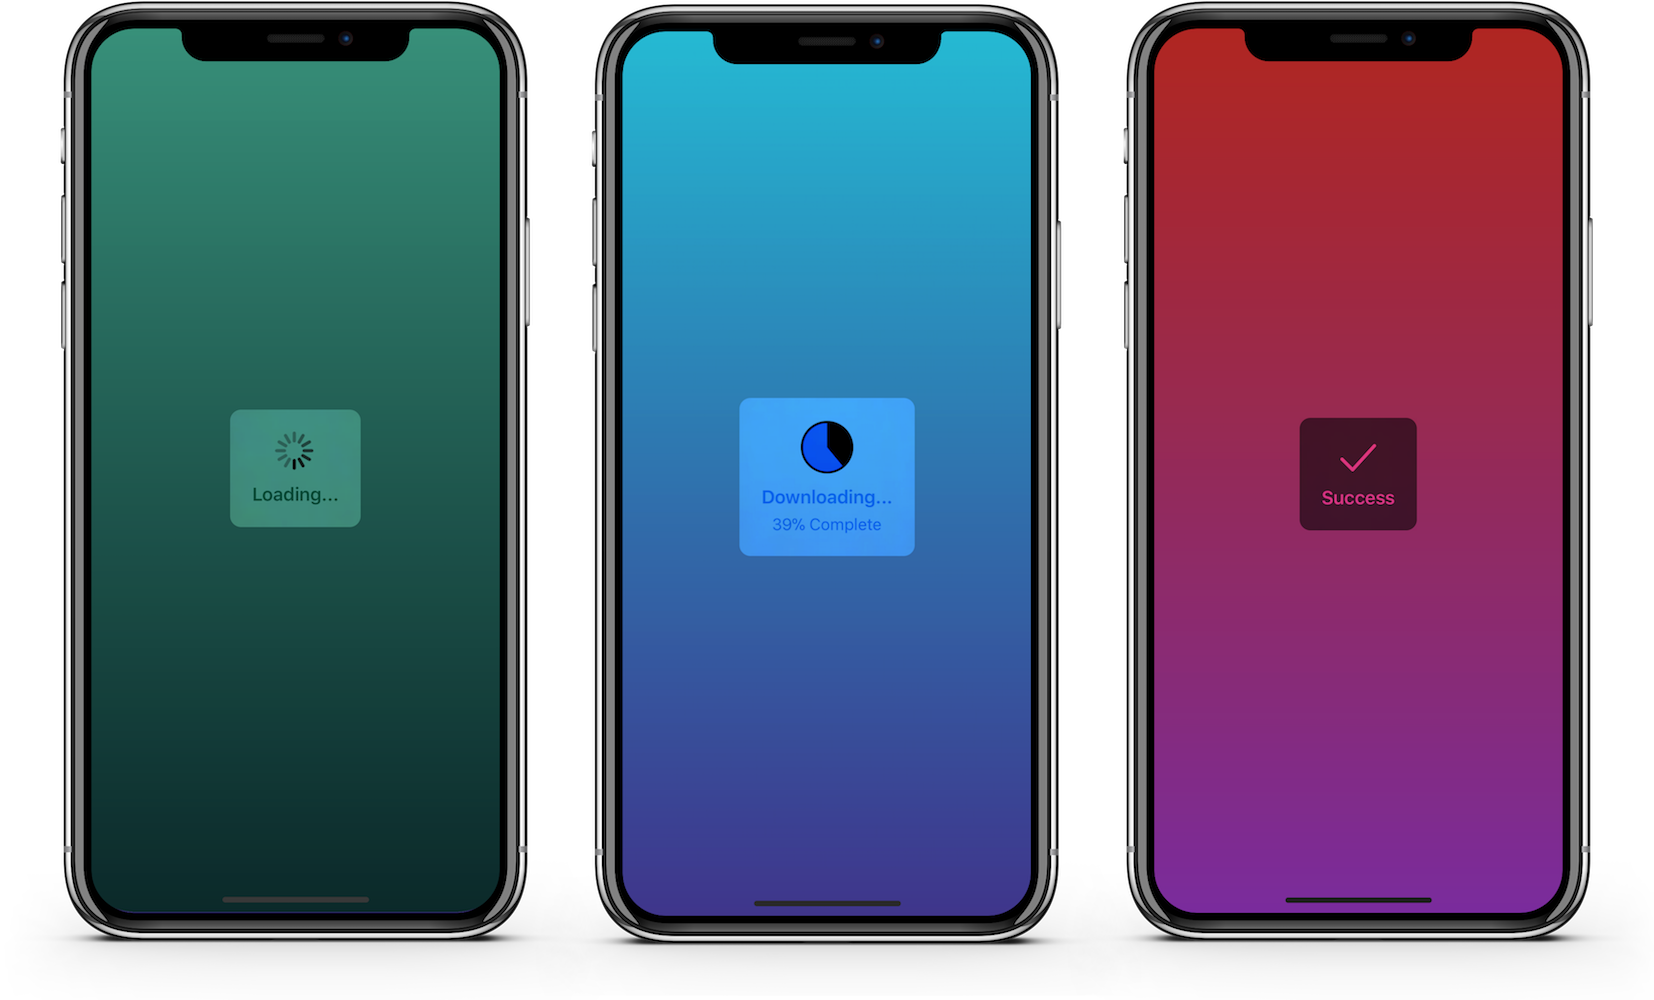
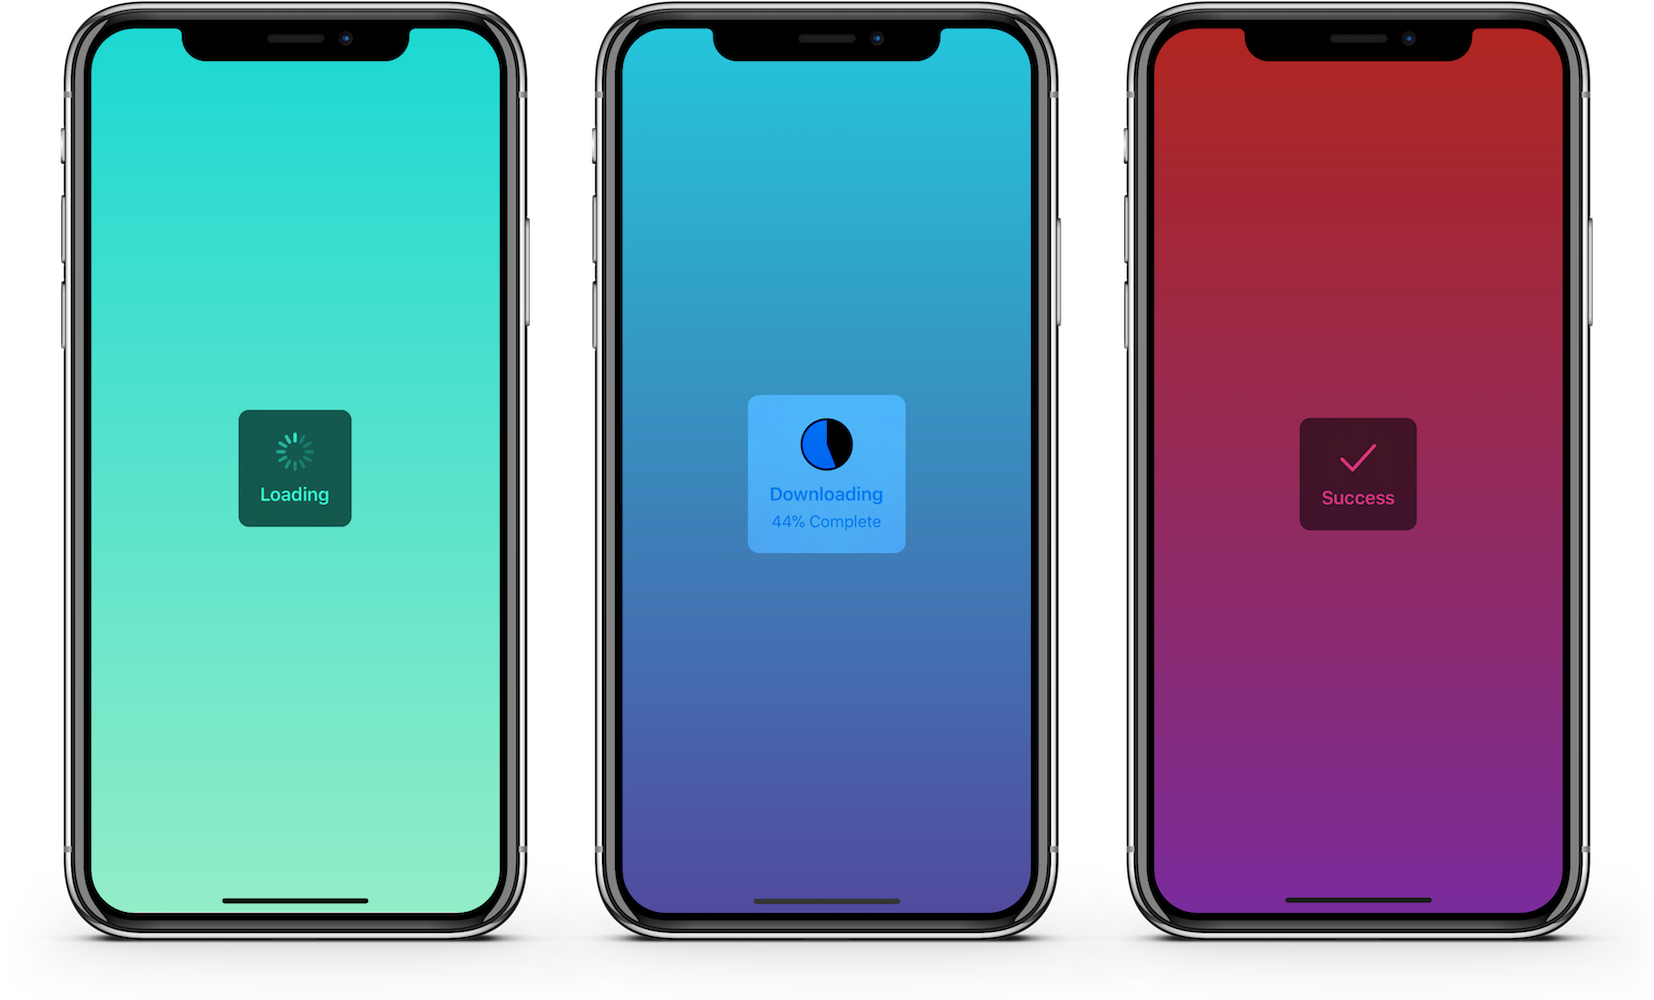
Update screenshots and examples

diff --git a/Examples/JGProgressHUD-Tests-Swift/ViewController.swift b/Examples/JGProgressHUD-Tests-Swift/ViewController.swift
@@ -9,6 +9,14 @@
 import UIKit
 import JGProgressHUD
 
+private typealias Gradient = (start: UIColor, end: UIColor)
+
+private let blueGradient: Gradient = (UIColor(rgb: 0x24C6DC), UIColor(rgb: 0x514A9D))
+private let tealGradient: Gradient = (UIColor(rgb: 0x1CD8D2), UIColor(rgb: 0x93EDC7))
+private let redGradient: Gradient = (UIColor(rgb: 0xAE2727), UIColor(rgb: 0x79319B))
+
+private let gradient = blueGradient
+
 final class GradientView: UIView {
     init(startColor: UIColor, endColor: UIColor) {
         super.init(frame: .zero)
@@ -45,26 +53,32 @@ extension UIColor {
 }
 
 final class ViewController: UIViewController {
+    #if os(iOS)
     override var prefersStatusBarHidden: Bool {
         return true
     }
+    #endif
     
     override func loadView() {
-        self.view = GradientView(startColor: UIColor(rgb: 0x24C6DC), endColor: UIColor(rgb: 0x514A9D))
+        self.view = GradientView(startColor: gradient.start, endColor: gradient.end)
     }
     
     override func viewDidAppear(_ animated: Bool) {
         super.viewDidAppear(animated)
         
         DispatchQueue.main.asyncAfter(deadline: .now() + .milliseconds(1000)) {
-            self.showPieHUD()
+            self.showLoadingHUD()
         }
     }
     
     func showSimpleHUD() {
         let hud = JGProgressHUD(style: .light)
         hud.vibrancyEnabled = true
-        hud.textLabel.text = "Simple example in Swift"
+        #if os(tvOS)
+            hud.textLabel.text = "Simple example on tvOS in Swift"
+        #else
+            hud.textLabel.text = "Simple example in Swift"
+        #endif
         hud.detailTextLabel.text = "See JGProgressHUD-Tests for more examples"
         hud.shadow = JGProgressHUDShadow(color: .black, offset: .zero, radius: 5.0, opacity: 0.2)
         hud.show(in: self.view)
@@ -73,7 +87,7 @@ final class ViewController: UIViewController {
     func showHUDWithTransform() {
         let hud = JGProgressHUD(style: .light)
         hud.vibrancyEnabled = true
-        hud.textLabel.text = "Loading..."
+        hud.textLabel.text = "Loading"
         hud.layoutMargins = UIEdgeInsetsMake(0.0, 0.0, 10.0, 0.0)
         
         hud.show(in: self.view)
@@ -94,12 +108,17 @@ final class ViewController: UIViewController {
         }
     }
     
-    func showPieHUD() {
+    func showLoadingHUD() {
         let hud = JGProgressHUD(style: .light)
         hud.vibrancyEnabled = true
-        hud.indicatorView = JGProgressHUDPieIndicatorView()
+        if arc4random_uniform(2) == 0 {
+            hud.indicatorView = JGProgressHUDPieIndicatorView()
+        }
+        else {
+            hud.indicatorView = JGProgressHUDRingIndicatorView()
+        }
         hud.detailTextLabel.text = "0% Complete"
-        hud.textLabel.text = "Downloading..."
+        hud.textLabel.text = "Downloading"
         hud.show(in: self.view)
         
         DispatchQueue.main.asyncAfter(deadline: .now() + .milliseconds(400)) {

diff --git a/Examples/JGProgressHUD-Tests/JGMainViewController.m b/Examples/JGProgressHUD-Tests/JGMainViewController.m
@@ -114,7 +114,7 @@
 - (void)showCancellableHUD {
     JGProgressHUD *HUD = self.prototypeHUD;
     
-    HUD.textLabel.text = @"Loading for a long time...";
+    HUD.textLabel.text = @"Loading for a long time";
     
     __block BOOL confirmationAsked = NO;
     
@@ -140,7 +140,7 @@
                     __strong __typeof(wH) sH = wH;
                     
                     sH.indicatorView = [[JGProgressHUDIndeterminateIndicatorView alloc] init];
-                    sH.textLabel.text = @"Loading for a long time...";
+                    sH.textLabel.text = @"Loading for a long time";
                     
                     [UIView animateWithDuration:0.0 delay:0.0 options:UIViewAnimationOptionBeginFromCurrentState animations:^{
                         sH.shadow = nil;
@@ -158,11 +158,15 @@
         if (confirmationAsked) {
             confirmationAsked = NO;
             h.indicatorView = [[JGProgressHUDIndeterminateIndicatorView alloc] init];
-            h.textLabel.text = @"Loading for a long time...";
+            h.textLabel.text = @"Loading for a long time";
             
             [UIView animateWithDuration:0.0 delay:0.0 options:UIViewAnimationOptionBeginFromCurrentState animations:^{
                 h.shadow = nil;
             } completion:nil];
+
+            if (_shadow) {
+                sH.shadow = [JGProgressHUDShadow shadowWithColor:[UIColor blackColor] offset:CGSizeZero radius:5.0 opacity:0.3f];
+            }
         }
     };
     
@@ -174,7 +178,7 @@
 - (void)showHUDWithTransform {
     JGProgressHUD *HUD = self.prototypeHUD;
     
-    HUD.textLabel.text = @"Loading...";
+    HUD.textLabel.text = @"Loading";
     
     HUD.layoutMargins = UIEdgeInsetsMake(0.0f, 0.0f, 10.0f, 0.0f);
     
@@ -202,7 +206,7 @@
     
     HUD.detailTextLabel.text = @"0% Complete";
     
-    HUD.textLabel.text = @"Downloading...";
+    HUD.textLabel.text = @"Downloading";
     [HUD showInView:self.navigationController.view];
     
     dispatch_after(dispatch_time(DISPATCH_TIME_NOW, (int64_t)(0.4 * NSEC_PER_SEC)), dispatch_get_main_queue(), ^{
@@ -217,7 +221,7 @@
     
     HUD.detailTextLabel.text = @"0% Complete";
     
-    HUD.textLabel.text = @"Downloading...";
+    HUD.textLabel.text = @"Downloading";
     [HUD showInView:self.navigationController.view];
     
     dispatch_after(dispatch_time(DISPATCH_TIME_NOW, (int64_t)(0.4 * NSEC_PER_SEC)), dispatch_get_main_queue(), ^{
